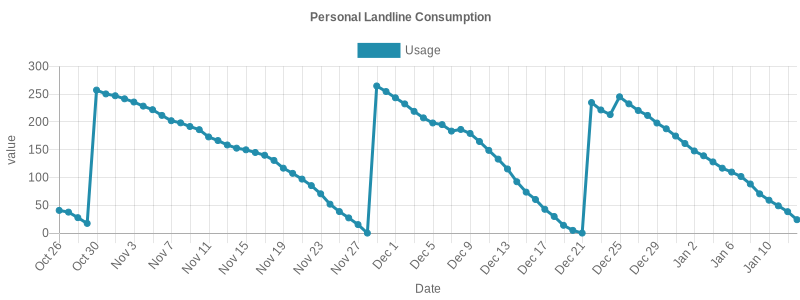
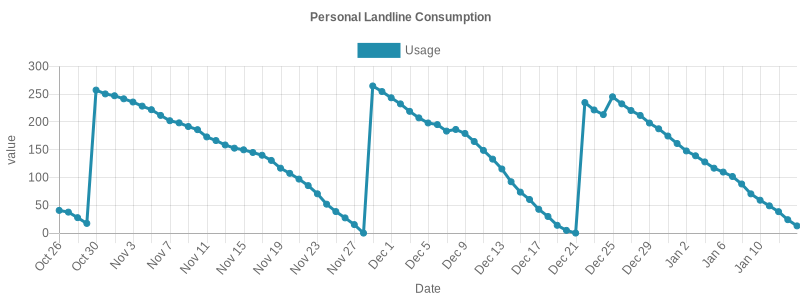
update logs

Changed region(s): [[0.125, 0.24, 1.0, 0.93], [0.0938, 0.33, 0.125, 0.75], [0.0938, 0.81, 0.1562, 0.9]]

diff --git a/quota-logs/README.md b/quota-logs/README.md
@@ -78,3 +78,4 @@
 ## Thu Jan 11 2024 00:35:25 GMT+0200|49.1/298
 ## Fri Jan 12 2024 00:35:11 GMT+0200|38.54/298
 ## Sat Jan 13 2024 00:34:45 GMT+0200|24.13/298
+## Sun Jan 14 2024 00:35:03 GMT+0200|12.98/298
